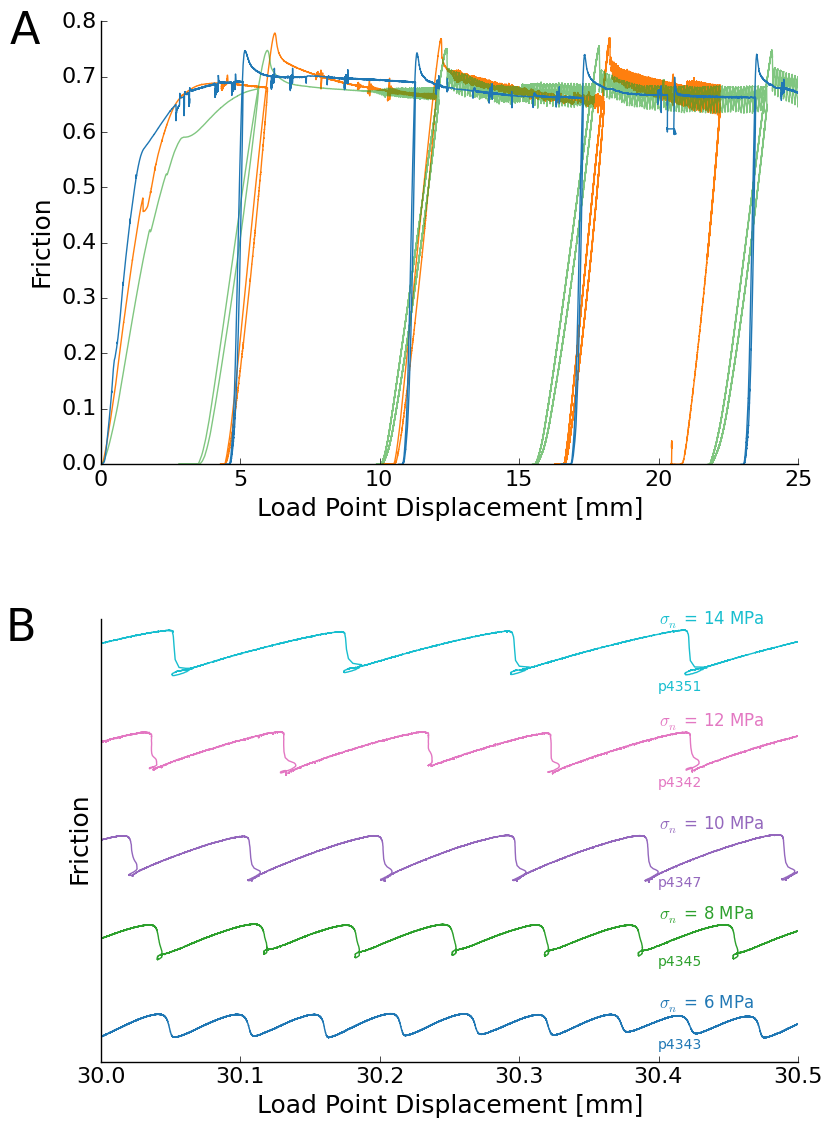
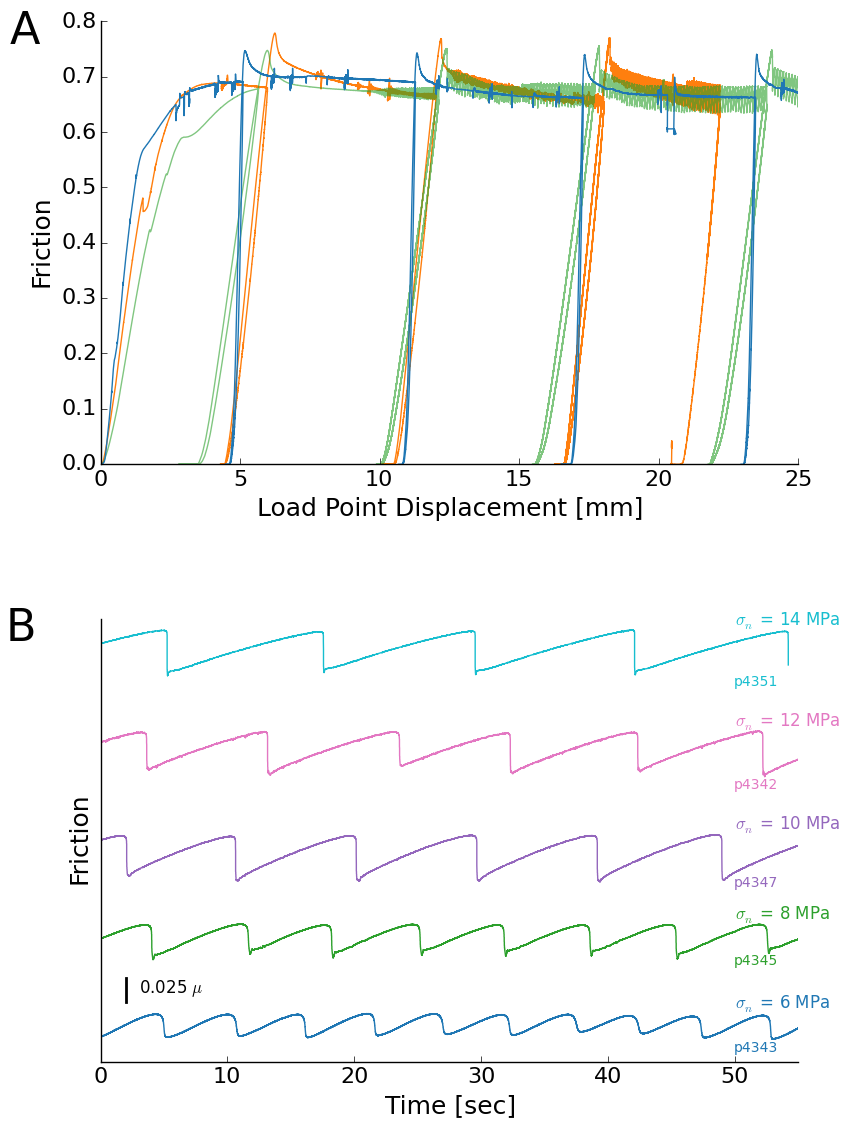
Make x-axis of runplot panel B appear in time

diff --git a/Figures/Fig_Runplot/make_plot.py b/Figures/Fig_Runplot/make_plot.py
@@ -173,7 +173,7 @@ p4316 = ReadAscii(data_path + '/p4316/p4316_data.txt')
 
 path = '/Users/jleeman/Dropbox/PennState/BiaxExperiments'
 dis_low = 30*1000
-dis_high = 31*1000
+dis_high = 30.55*1000
 p4343 = ReadExp('p4343',path,dis_low,dis_high)
 p4345 = ReadExp('p4345',path,dis_low,dis_high)
 p4347 = ReadExp('p4347',path,dis_low,dis_high)
@@ -243,7 +243,7 @@ axA.set_xlim(0,25)
 
 
 # Set labels and tick sizes
-axB.set_xlabel(r'Load Point Displacement [mm]',fontsize=18)
+axB.set_xlabel(r'Time [sec]',fontsize=18)
 axB.set_ylabel(r'Friction',fontsize=18)
 axB.tick_params(axis='both', which='major', labelsize=16)
 
@@ -268,26 +268,32 @@ axB.spines["right"].set_visible(False)
 # Plotting
 window_size = 5
 order = 3
-axB.plot(p4343['LP_Disp']/1000.,savitzky_golay(np.ravel(p4343['mu']), window_size, order)+0.05*0.5,label='6 MPa',color=tableau20[0])
-axB.plot(p4345['LP_Disp']/1000.,savitzky_golay(np.ravel(p4345['mu']), window_size, order)+0.05*2.5,label='8 MPa',color=tableau20[4])
-axB.plot(p4347['LP_Disp']/1000.,savitzky_golay(np.ravel(p4347['mu']), window_size, order)+0.05*4.5,label='10 MPa',color=tableau20[8])
-axB.plot(p4342['LP_Disp']/1000.,savitzky_golay(np.ravel(p4342['mu']), window_size, order)+0.05*6.5,label='12 MPa',color=tableau20[12])
-axB.plot(p4351['LP_Disp']/1000.,savitzky_golay(np.ravel(p4351['mu']), window_size, order)+0.05*8.5,label='14 MPa',color=tableau20[18])
+axB.plot(p4343['Time']-p4343['Time'][0],savitzky_golay(np.ravel(p4343['mu']), window_size, order)+0.05*0.5,label='6 MPa',color=tableau20[0])
+axB.plot(p4345['Time']-p4345['Time'][0],savitzky_golay(np.ravel(p4345['mu']), window_size, order)+0.05*2.5,label='8 MPa',color=tableau20[4])
+axB.plot(p4347['Time']-p4347['Time'][0],savitzky_golay(np.ravel(p4347['mu']), window_size, order)+0.05*4.5,label='10 MPa',color=tableau20[8])
+axB.plot(p4342['Time']-p4342['Time'][0],savitzky_golay(np.ravel(p4342['mu']), window_size, order)+0.05*6.5,label='12 MPa',color=tableau20[12])
+axB.plot(p4351['Time']-p4351['Time'][0],savitzky_golay(np.ravel(p4351['mu']), window_size, order)+0.05*8.5,label='14 MPa',color=tableau20[18])
 
-axB.text(30.4,np.max(p4343['mu'])+0.05*0.6,r'$\sigma_n$ = 6 MPa',fontsize=12,color=tableau20[0])
-axB.text(30.4,np.max(p4345['mu'])+0.05*2.6,r'$\sigma_n$ = 8 MPa',fontsize=12,color=tableau20[4])
-axB.text(30.4,np.max(p4347['mu'])+0.05*4.6,r'$\sigma_n$ = 10 MPa',fontsize=12,color=tableau20[8])
-axB.text(30.4,np.max(p4342['mu'])+0.05*6.6,r'$\sigma_n$ = 12 MPa',fontsize=12,color=tableau20[12])
-axB.text(30.4,np.max(p4351['mu'])+0.05*8.6,r'$\sigma_n$ = 14 MPa',fontsize=12,color=tableau20[18])
+x_pos = 50.
 
-axB.text(30.4,np.min(p4343['mu'])+0.05*0.3,r'p4343',fontsize=10,color=tableau20[0])
-axB.text(30.4,np.min(p4345['mu'])+0.05*2.4,r'p4345',fontsize=10,color=tableau20[4])
-axB.text(30.4,np.min(p4347['mu'])+0.05*4.4,r'p4347',fontsize=10,color=tableau20[8])
-axB.text(30.4,np.min(p4342['mu'])+0.05*6.3,r'p4342',fontsize=10,color=tableau20[12])
-axB.text(30.4,np.min(p4351['mu'])+0.05*8.2,r'p4351',fontsize=10,color=tableau20[18])
+axB.text(x_pos,np.max(p4343['mu'])+0.05*0.6,r'$\sigma_n$ = 6 MPa',fontsize=12,color=tableau20[0])
+axB.text(x_pos,np.max(p4345['mu'])+0.05*2.6,r'$\sigma_n$ = 8 MPa',fontsize=12,color=tableau20[4])
+axB.text(x_pos,np.max(p4347['mu'])+0.05*4.6,r'$\sigma_n$ = 10 MPa',fontsize=12,color=tableau20[8])
+axB.text(x_pos,np.max(p4342['mu'])+0.05*6.6,r'$\sigma_n$ = 12 MPa',fontsize=12,color=tableau20[12])
+axB.text(x_pos,np.max(p4351['mu'])+0.05*8.6,r'$\sigma_n$ = 14 MPa',fontsize=12,color=tableau20[18])
+
+axB.text(x_pos,np.min(p4343['mu'])+0.05*0.25,r'p4343',fontsize=10,color=tableau20[0])
+axB.text(x_pos,np.min(p4345['mu'])+0.05*2.4,r'p4345',fontsize=10,color=tableau20[4])
+axB.text(x_pos,np.min(p4347['mu'])+0.05*4.4,r'p4347',fontsize=10,color=tableau20[8])
+axB.text(x_pos,np.min(p4342['mu'])+0.05*6.25,r'p4342',fontsize=10,color=tableau20[12])
+axB.text(x_pos,np.min(p4351['mu'])+0.05*8.3,r'p4351',fontsize=10,color=tableau20[18])
+
+# Scale Bar
+axB.plot([2,2],[0.06,0.085],color='k',linewidth=2)
+axB.text(3,0.07,r'0.025 $\mu$',fontsize=12,color='k')
 
 # Set limits
-axB.set_xlim(30,30.5)
+axB.set_xlim(0,55)
 axB.set_ylim(0,0.45)
 print axB.get_ylim()
 
